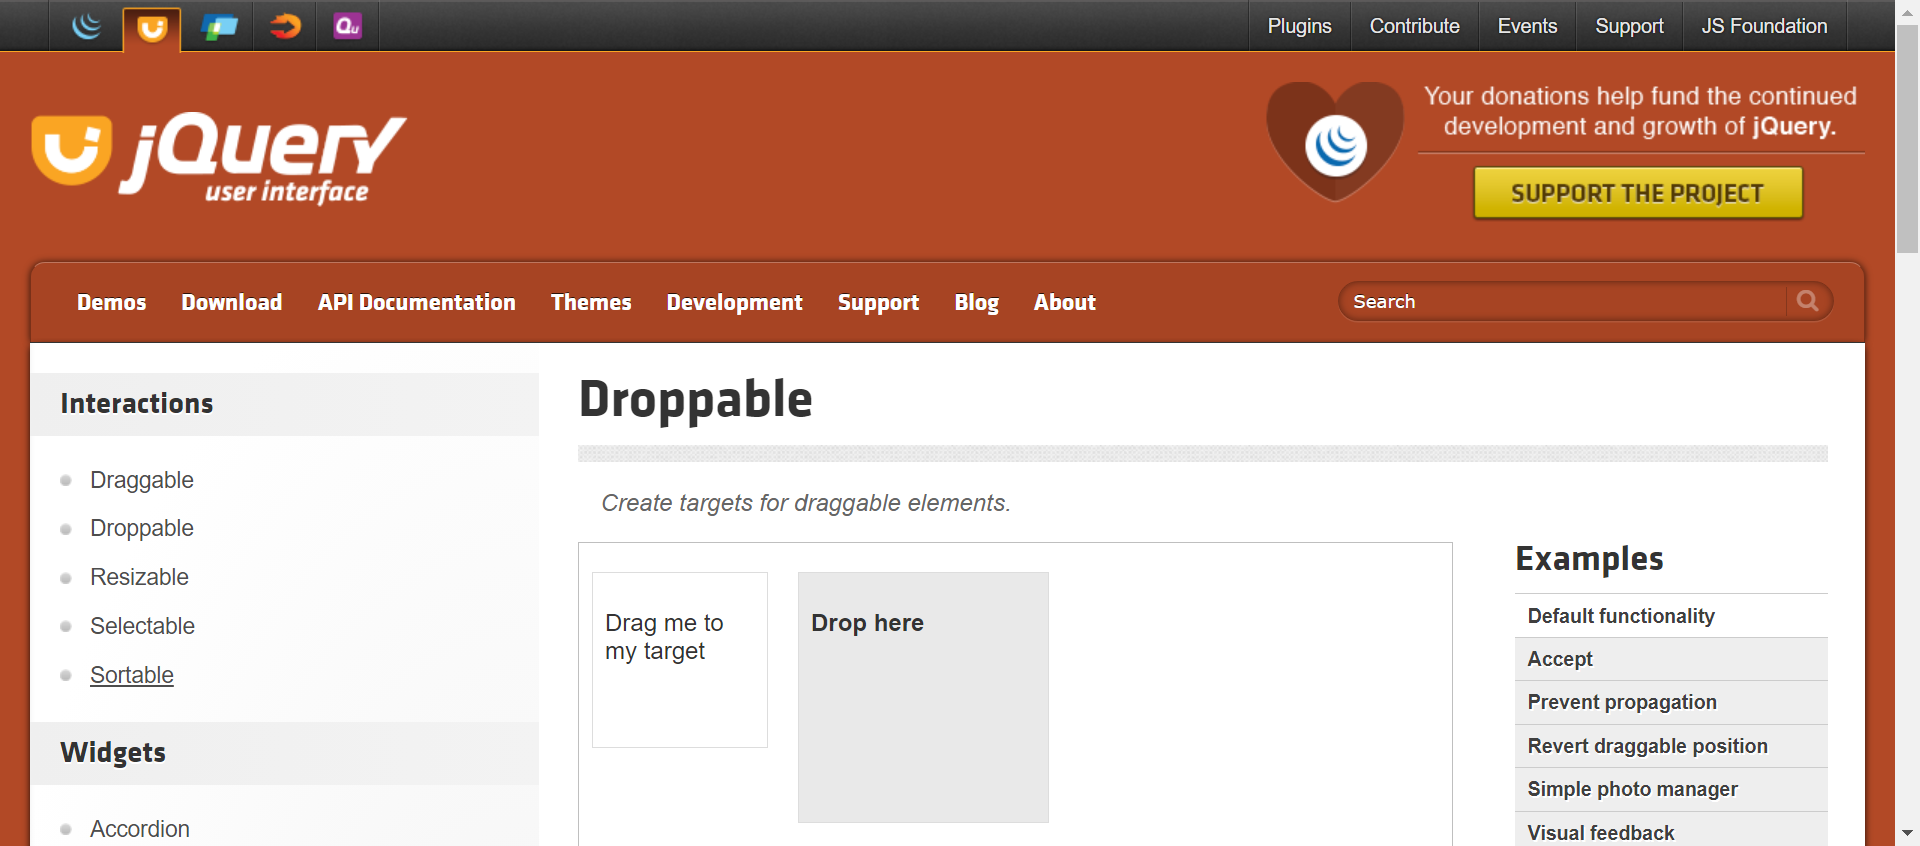
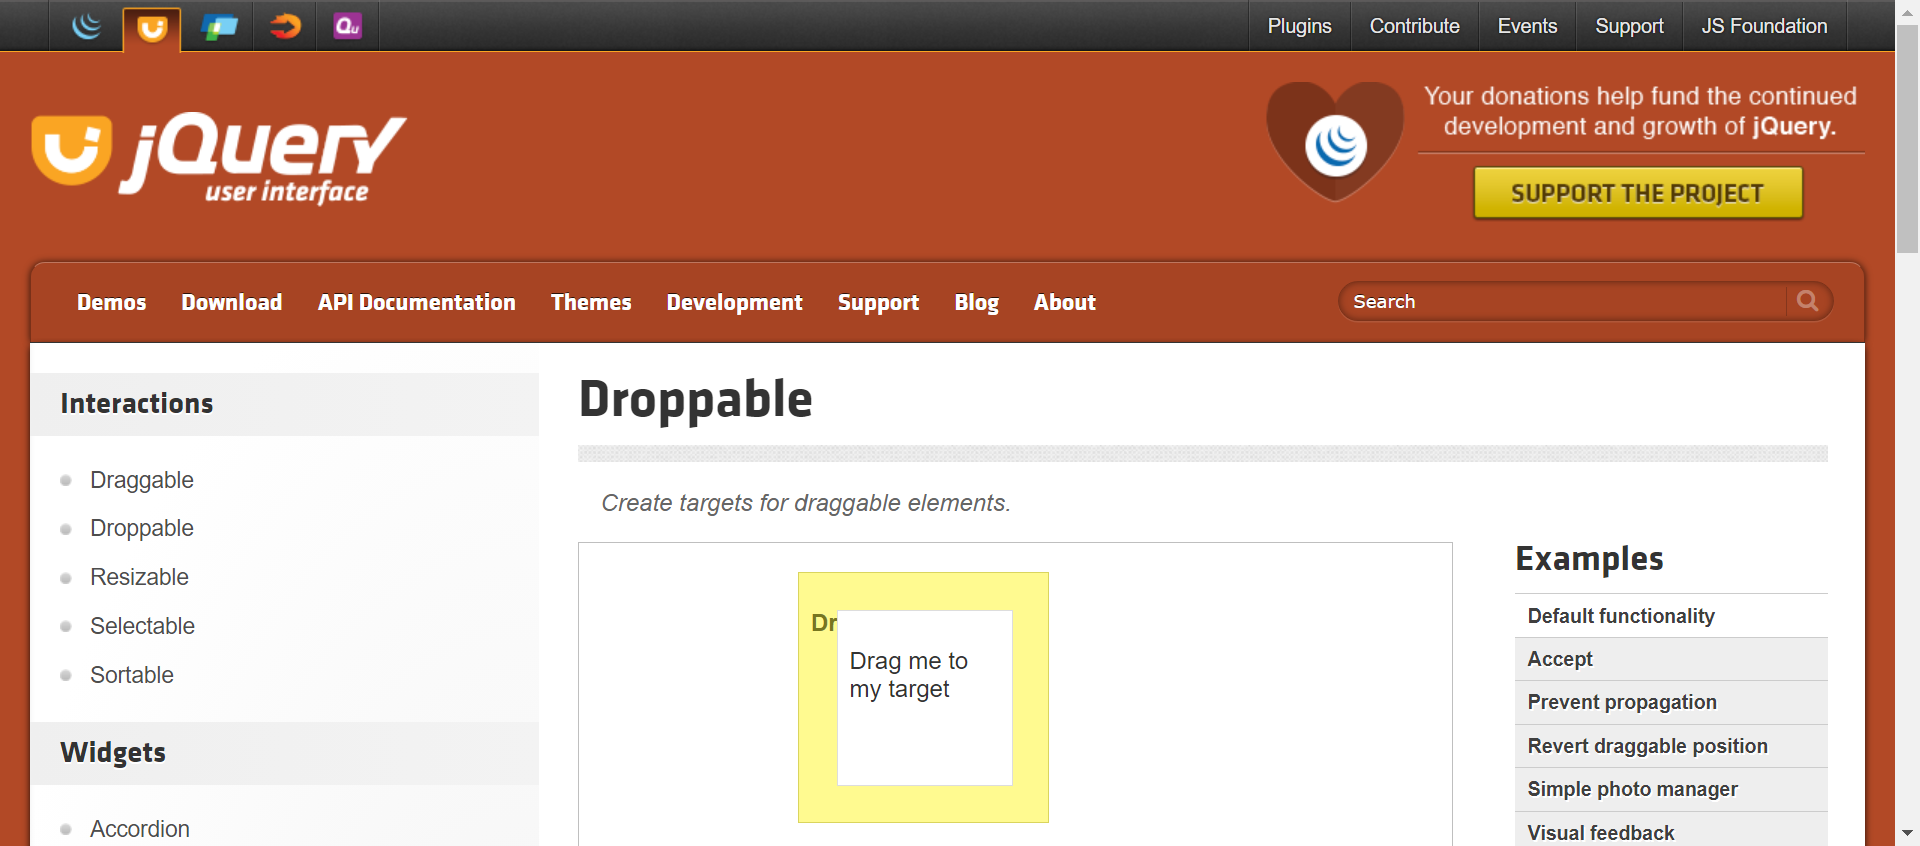
fix: drag and drop feature

Changed region(s): [[0.4062, 0.6761, 0.5625, 0.9835], [0.3125, 0.7069, 0.375, 0.7991]]

diff --git a/target/reports.html b/target/reports.html
@@ -38,7 +38,7 @@ body{padding:0;margin:0}.html-formatter{max-width:1600px;min-height:100vh;margin
 <div id="content">
 </div>
 <script>
-window.CUCUMBER_MESSAGES = [{"meta":{"protocolVersion":"19.1.4","implementation":{"name":"cucumber-jvm","version":"7.10.1"},"runtime":{"name":"Java HotSpot(TM) 64-Bit Server VM","version":"17.0.6+9-LTS-190"},"os":{"name":"Windows 10"},"cpu":{"name":"amd64"}}},{"testRunStarted":{"timestamp":{"seconds":1676283001,"nanos":433547300}}},{"source":{"uri":"file:///C:/Users/Formulatrix/Documents/Nugi/Java/jquery/src/test/resource/features/Droppable.feature","data":"Feature: to test and validate drag and drop element\r\n    @run\r\n    Scenario: successfully validate drag and drop an element\r\n        Given user is on jquery home page\r\n        And user go to \"Droppable\" page\r\n        Then user drag and drop element\r\n        Then element successfully dropped","mediaType":"text/x.cucumber.gherkin+plain"}},{"gherkinDocument":{"uri":"file:///C:/Users/Formulatrix/Documents/Nugi/Java/jquery/src/test/resource/features/Droppable.feature","feature":{"location":{"line":1,"column":1},"tags":[],"language":"en","keyword":"Feature","name":"to test and validate drag and drop element","description":"","children":[{"scenario":{"location":{"line":3,"column":5},"tags":[{"location":{"line":2,"column":5},"name":"@run","id":"c328298e-13a1-489f-b04e-7148a51bdf41"}],"keyword":"Scenario","name":"successfully validate drag and drop an element","description":"","steps":[{"location":{"line":4,"column":9},"keyword":"Given ","keywordType":"Context","text":"user is on jquery home page","id":"3a92dff9-d424-432d-aebc-021e7b579d3d"},{"location":{"line":5,"column":9},"keyword":"And ","keywordType":"Conjunction","text":"user go to \"Droppable\" page","id":"9a145c7c-2b4d-4a31-8f42-1dc280dc90d3"},{"location":{"line":6,"column":9},"keyword":"Then ","keywordType":"Outcome","text":"user drag and drop element","id":"01b42d81-90ff-41e2-8474-ea606e4c7f4a"},{"location":{"line":7,"column":9},"keyword":"Then ","keywordType":"Outcome","text":"element successfully dropped","id":"bdf19fd7-b1c5-49d8-a446-60153ae9c157"}],"examples":[],"id":"02f602e0-cee0-4828-91f7-d17985b01421"}}]},"comments":[]}},{"pickle":{"id":"e1ffa490-31dd-41b5-960d-1814c2c7249d","uri":"file:///C:/Users/Formulatrix/Documents/Nugi/Java/jquery/src/test/resource/features/Droppable.feature","name":"successfully validate drag and drop an element","language":"en","steps":[{"astNodeIds":["3a92dff9-d424-432d-aebc-021e7b579d3d"],"id":"c3f97a2f-2f03-44f1-962a-74033e7461eb","type":"Context","text":"user is on jquery home page"},{"astNodeIds":["9a145c7c-2b4d-4a31-8f42-1dc280dc90d3"],"id":"754b4523-13e6-468e-a60e-cd26e87c4619","type":"Context","text":"user go to \"Droppable\" page"},{"astNodeIds":["01b42d81-90ff-41e2-8474-ea606e4c7f4a"],"id":"04dd3591-318d-4353-98bd-6108b0a0d2ad","type":"Outcome","text":"user drag and drop element"},{"astNodeIds":["bdf19fd7-b1c5-49d8-a446-60153ae9c157"],"id":"1b54b75d-c89e-4679-80de-d6555508725d","type":"Outcome","text":"element successfully dropped"}],"tags":[{"name":"@run","astNodeId":"c328298e-13a1-489f-b04e-7148a51bdf41"}],"astNodeIds":["02f602e0-cee0-4828-91f7-d17985b01421"]}},{"testCase":{"id":"f621c6e4-e398-4411-a172-6500da5bec59","pickleId":"e1ffa490-31dd-41b5-960d-1814c2c7249d","testSteps":[{"hookId":"7e7edaae-bd73-4468-bdfe-c4833521cf38","id":"c87e2ed1-0966-4b56-9f8a-c1bf21df7ca8"},{"id":"6f657b8a-bdda-41e6-b96f-0165682f2e1e","pickleStepId":"c3f97a2f-2f03-44f1-962a-74033e7461eb","stepDefinitionIds":["a8c001f5-a664-4809-af3f-9401041ff2c7"],"stepMatchArgumentsLists":[{"stepMatchArguments":[]}]},{"id":"c297d833-bc7c-43b4-b6ee-2f21ded17e86","pickleStepId":"754b4523-13e6-468e-a60e-cd26e87c4619","stepDefinitionIds":["6d3f8b75-6ed4-4db2-a972-f6e9af9974f4"],"stepMatchArgumentsLists":[{"stepMatchArguments":[{"group":{"children":[{"children":[{"children":[],"start":-1}],"start":12,"value":"Droppable"},{"children":[{"children":[],"start":-1}],"start":-1}],"start":11,"value":"\"Droppable\""},"parameterTypeName":"string"}]}]},{"id":"d3678cf1-612d-4976-8dc5-8bbbf088af68","pickleStepId":"04dd3591-318d-4353-98bd-6108b0a0d2ad","stepDefinitionIds":["941518a5-6671-47d1-80a2-3693bf2f461d"],"stepMatchArgumentsLists":[{"stepMatchArguments":[]}]},{"id":"788ee81b-62c5-4010-8015-b135ca676487","pickleStepId":"1b54b75d-c89e-4679-80de-d6555508725d","stepDefinitionIds":["67fd4e5b-0436-4797-b984-5e87b54a80d7"],"stepMatchArgumentsLists":[{"stepMatchArguments":[]}]},{"hookId":"a4bd6b30-4370-4b15-94df-c500d3cf4b9a","id":"a7472a94-6817-4567-aafa-6a00751a0133"}]}},{"testCaseStarted":{"attempt":0,"id":"734be3d1-b7ec-4ecf-8847-e6e3fc5a583c","testCaseId":"f621c6e4-e398-4411-a172-6500da5bec59","timestamp":{"seconds":1676283001,"nanos":587220600}}},{"testStepStarted":{"testCaseStartedId":"734be3d1-b7ec-4ecf-8847-e6e3fc5a583c","testStepId":"c87e2ed1-0966-4b56-9f8a-c1bf21df7ca8","timestamp":{"seconds":1676283001,"nanos":590212800}}},{"testStepFinished":{"testCaseStartedId":"734be3d1-b7ec-4ecf-8847-e6e3fc5a583c","testStepId":"c87e2ed1-0966-4b56-9f8a-c1bf21df7ca8","testStepResult":{"duration":{"seconds":1,"nanos":676122300},"status":"PASSED"},"timestamp":{"seconds":1676283003,"nanos":266335100}}},{"testStepStarted":{"testCaseStartedId":"734be3d1-b7ec-4ecf-8847-e6e3fc5a583c","testStepId":"6f657b8a-bdda-41e6-b96f-0165682f2e1e","timestamp":{"seconds":1676283003,"nanos":272318700}}},{"testStepFinished":{"testCaseStartedId":"734be3d1-b7ec-4ecf-8847-e6e3fc5a583c","testStepId":"6f657b8a-bdda-41e6-b96f-0165682f2e1e","testStepResult":{"duration":{"seconds":6,"nanos":367723100},"status":"PASSED"},"timestamp":{"seconds":1676283009,"nanos":640041800}}},{"testStepStarted":{"testCaseStartedId":"734be3d1-b7ec-4ecf-8847-e6e3fc5a583c","testStepId":"c297d833-bc7c-43b4-b6ee-2f21ded17e86","timestamp":{"seconds":1676283009,"nanos":643034200}}},{"testStepFinished":{"testCaseStartedId":"734be3d1-b7ec-4ecf-8847-e6e3fc5a583c","testStepId":"c297d833-bc7c-43b4-b6ee-2f21ded17e86","testStepResult":{"duration":{"seconds":3,"nanos":317920300},"status":"PASSED"},"timestamp":{"seconds":1676283012,"nanos":960954500}}},{"testStepStarted":{"testCaseStartedId":"734be3d1-b7ec-4ecf-8847-e6e3fc5a583c","testStepId":"d3678cf1-612d-4976-8dc5-8bbbf088af68","timestamp":{"seconds":1676283012,"nanos":960954500}}},{"testStepFinished":{"testCaseStartedId":"734be3d1-b7ec-4ecf-8847-e6e3fc5a583c","testStepId":"d3678cf1-612d-4976-8dc5-8bbbf088af68","testStepResult":{"duration":{"seconds":0,"nanos":329642700},"status":"PASSED"},"timestamp":{"seconds":1676283013,"nanos":290597200}}},{"testStepStarted":{"testCaseStartedId":"734be3d1-b7ec-4ecf-8847-e6e3fc5a583c","testStepId":"788ee81b-62c5-4010-8015-b135ca676487","timestamp":{"seconds":1676283013,"nanos":291598200}}},{"testStepFinished":{"testCaseStartedId":"734be3d1-b7ec-4ecf-8847-e6e3fc5a583c","testStepId":"788ee81b-62c5-4010-8015-b135ca676487","testStepResult":{"duration":{"seconds":0,"nanos":3984700},"status":"PASSED"},"timestamp":{"seconds":1676283013,"nanos":295582900}}},{"testStepStarted":{"testCaseStartedId":"734be3d1-b7ec-4ecf-8847-e6e3fc5a583c","testStepId":"a7472a94-6817-4567-aafa-6a00751a0133","timestamp":{"seconds":1676283013,"nanos":295582900}}},{"testStepFinished":{"testCaseStartedId":"734be3d1-b7ec-4ecf-8847-e6e3fc5a583c","testStepId":"a7472a94-6817-4567-aafa-6a00751a0133","testStepResult":{"duration":{"seconds":0,"nanos":224453500},"status":"PASSED"},"timestamp":{"seconds":1676283013,"nanos":520036400}}},{"testCaseFinished":{"testCaseStartedId":"734be3d1-b7ec-4ecf-8847-e6e3fc5a583c","timestamp":{"seconds":1676283013,"nanos":520036400},"willBeRetried":false}},{"testRunFinished":{"success":true,"timestamp":{"seconds":1676283013,"nanos":530008200}}}];
+window.CUCUMBER_MESSAGES = [{"meta":{"protocolVersion":"19.1.4","implementation":{"name":"cucumber-jvm","version":"7.10.1"},"runtime":{"name":"Java HotSpot(TM) 64-Bit Server VM","version":"17.0.6+9-LTS-190"},"os":{"name":"Windows 10"},"cpu":{"name":"amd64"}}},{"testRunStarted":{"timestamp":{"seconds":1676338224,"nanos":358141700}}},{"source":{"uri":"file:///C:/Users/Formulatrix/Documents/Nugi/Java/jquery/src/test/resource/features/Droppable.feature","data":"Feature: to test and validate drag and drop element\r\n    @run\r\n    Scenario: successfully validate drag and drop an element\r\n        Given user is on jquery home page\r\n        And user go to \"Droppable\" page\r\n        Then user drag and drop element\r\n        When dropable element have \"Dropped!\" as text and yellow background color\r\n        Then element successfully dropped","mediaType":"text/x.cucumber.gherkin+plain"}},{"gherkinDocument":{"uri":"file:///C:/Users/Formulatrix/Documents/Nugi/Java/jquery/src/test/resource/features/Droppable.feature","feature":{"location":{"line":1,"column":1},"tags":[],"language":"en","keyword":"Feature","name":"to test and validate drag and drop element","description":"","children":[{"scenario":{"location":{"line":3,"column":5},"tags":[{"location":{"line":2,"column":5},"name":"@run","id":"94cd65a0-61a0-4126-b43e-e7719552dcfc"}],"keyword":"Scenario","name":"successfully validate drag and drop an element","description":"","steps":[{"location":{"line":4,"column":9},"keyword":"Given ","keywordType":"Context","text":"user is on jquery home page","id":"dc30f519-726c-42a1-b25c-27bba6bbde25"},{"location":{"line":5,"column":9},"keyword":"And ","keywordType":"Conjunction","text":"user go to \"Droppable\" page","id":"7615d222-6166-4772-b636-6035b409a9c0"},{"location":{"line":6,"column":9},"keyword":"Then ","keywordType":"Outcome","text":"user drag and drop element","id":"2a6774c4-4cc7-460d-acd3-372c0644c4b3"},{"location":{"line":7,"column":9},"keyword":"When ","keywordType":"Action","text":"dropable element have \"Dropped!\" as text and yellow background color","id":"b972eeb0-2f06-4ebb-b6c3-2cf63befc480"},{"location":{"line":8,"column":9},"keyword":"Then ","keywordType":"Outcome","text":"element successfully dropped","id":"2a0c1ea6-0ced-4097-ab7a-2998c915e824"}],"examples":[],"id":"9af37b1d-e82c-479a-b40b-16569fc69658"}}]},"comments":[]}},{"pickle":{"id":"ec51541b-ea77-49a6-901b-afb20cb26aef","uri":"file:///C:/Users/Formulatrix/Documents/Nugi/Java/jquery/src/test/resource/features/Droppable.feature","name":"successfully validate drag and drop an element","language":"en","steps":[{"astNodeIds":["dc30f519-726c-42a1-b25c-27bba6bbde25"],"id":"185a7014-6675-475b-b4bb-ef6d603e6e11","type":"Context","text":"user is on jquery home page"},{"astNodeIds":["7615d222-6166-4772-b636-6035b409a9c0"],"id":"4dfdf001-90fb-4ce7-b467-6917cfdde490","type":"Context","text":"user go to \"Droppable\" page"},{"astNodeIds":["2a6774c4-4cc7-460d-acd3-372c0644c4b3"],"id":"97db8824-857d-40b5-ad34-4989a6030f19","type":"Outcome","text":"user drag and drop element"},{"astNodeIds":["b972eeb0-2f06-4ebb-b6c3-2cf63befc480"],"id":"37403307-18b6-49a0-9919-3c656b168060","type":"Action","text":"dropable element have \"Dropped!\" as text and yellow background color"},{"astNodeIds":["2a0c1ea6-0ced-4097-ab7a-2998c915e824"],"id":"8ab3b287-255c-4cff-b58f-cbee069510b4","type":"Outcome","text":"element successfully dropped"}],"tags":[{"name":"@run","astNodeId":"94cd65a0-61a0-4126-b43e-e7719552dcfc"}],"astNodeIds":["9af37b1d-e82c-479a-b40b-16569fc69658"]}},{"testCase":{"id":"f1e88633-27ca-4d38-aca7-5cd521443ce2","pickleId":"ec51541b-ea77-49a6-901b-afb20cb26aef","testSteps":[{"hookId":"6ba0e1ac-5f2d-442a-a1c1-782bb2c1caea","id":"c457580d-0110-4402-bded-a68df790760f"},{"id":"adb53981-369d-471d-b08b-b16571895309","pickleStepId":"185a7014-6675-475b-b4bb-ef6d603e6e11","stepDefinitionIds":["6ef49e9b-5cfb-4f17-a2c1-f2c957b0669a"],"stepMatchArgumentsLists":[{"stepMatchArguments":[]}]},{"id":"b82c1f79-1aca-4e12-bd1b-40f8cece6149","pickleStepId":"4dfdf001-90fb-4ce7-b467-6917cfdde490","stepDefinitionIds":["4e6b29a3-86c9-476a-add2-6e0e0d8c75c9"],"stepMatchArgumentsLists":[{"stepMatchArguments":[{"group":{"children":[{"children":[{"children":[],"start":-1}],"start":12,"value":"Droppable"},{"children":[{"children":[],"start":-1}],"start":-1}],"start":11,"value":"\"Droppable\""},"parameterTypeName":"string"}]}]},{"id":"c6b9c4fd-cc53-435d-b167-344ab05b2f7c","pickleStepId":"97db8824-857d-40b5-ad34-4989a6030f19","stepDefinitionIds":["f6ceadc3-abf1-4ee1-8c9c-e791e31c69e9"],"stepMatchArgumentsLists":[{"stepMatchArguments":[]}]},{"id":"054a800a-a06c-412d-86d6-46f89df5680c","pickleStepId":"37403307-18b6-49a0-9919-3c656b168060","stepDefinitionIds":["a915d5ab-c9f3-4de7-90b9-4d65287735de"],"stepMatchArgumentsLists":[{"stepMatchArguments":[{"group":{"children":[{"children":[{"children":[],"start":-1}],"start":23,"value":"Dropped!"},{"children":[{"children":[],"start":-1}],"start":-1}],"start":22,"value":"\"Dropped!\""},"parameterTypeName":"string"}]}]},{"id":"f6517b5e-bc29-4936-95d8-73c1c1649227","pickleStepId":"8ab3b287-255c-4cff-b58f-cbee069510b4","stepDefinitionIds":["19e1cda0-fded-44ed-9367-203224b84ff1"],"stepMatchArgumentsLists":[{"stepMatchArguments":[]}]},{"hookId":"7d83e322-1957-4d08-ac30-7c415de354ff","id":"bea56dcc-605e-406c-afe5-becd029d562d"}]}},{"testCaseStarted":{"attempt":0,"id":"ef5bc9c9-d974-458d-90f0-8bfcbe611759","testCaseId":"f1e88633-27ca-4d38-aca7-5cd521443ce2","timestamp":{"seconds":1676338224,"nanos":515455600}}},{"testStepStarted":{"testCaseStartedId":"ef5bc9c9-d974-458d-90f0-8bfcbe611759","testStepId":"c457580d-0110-4402-bded-a68df790760f","timestamp":{"seconds":1676338224,"nanos":518412900}}},{"testStepFinished":{"testCaseStartedId":"ef5bc9c9-d974-458d-90f0-8bfcbe611759","testStepId":"c457580d-0110-4402-bded-a68df790760f","testStepResult":{"duration":{"seconds":1,"nanos":668442500},"status":"PASSED"},"timestamp":{"seconds":1676338226,"nanos":186855400}}},{"testStepStarted":{"testCaseStartedId":"ef5bc9c9-d974-458d-90f0-8bfcbe611759","testStepId":"adb53981-369d-471d-b08b-b16571895309","timestamp":{"seconds":1676338226,"nanos":187852400}}},{"testStepFinished":{"testCaseStartedId":"ef5bc9c9-d974-458d-90f0-8bfcbe611759","testStepId":"adb53981-369d-471d-b08b-b16571895309","testStepResult":{"duration":{"seconds":2,"nanos":101391600},"status":"PASSED"},"timestamp":{"seconds":1676338228,"nanos":289244000}}},{"testStepStarted":{"testCaseStartedId":"ef5bc9c9-d974-458d-90f0-8bfcbe611759","testStepId":"b82c1f79-1aca-4e12-bd1b-40f8cece6149","timestamp":{"seconds":1676338228,"nanos":290241300}}},{"testStepFinished":{"testCaseStartedId":"ef5bc9c9-d974-458d-90f0-8bfcbe611759","testStepId":"b82c1f79-1aca-4e12-bd1b-40f8cece6149","testStepResult":{"duration":{"seconds":2,"nanos":32438600},"status":"PASSED"},"timestamp":{"seconds":1676338230,"nanos":322679900}}},{"testStepStarted":{"testCaseStartedId":"ef5bc9c9-d974-458d-90f0-8bfcbe611759","testStepId":"c6b9c4fd-cc53-435d-b167-344ab05b2f7c","timestamp":{"seconds":1676338230,"nanos":323676300}}},{"testStepFinished":{"testCaseStartedId":"ef5bc9c9-d974-458d-90f0-8bfcbe611759","testStepId":"c6b9c4fd-cc53-435d-b167-344ab05b2f7c","testStepResult":{"duration":{"seconds":0,"nanos":355821700},"status":"PASSED"},"timestamp":{"seconds":1676338230,"nanos":679498000}}},{"testStepStarted":{"testCaseStartedId":"ef5bc9c9-d974-458d-90f0-8bfcbe611759","testStepId":"054a800a-a06c-412d-86d6-46f89df5680c","timestamp":{"seconds":1676338230,"nanos":679498000}}},{"testStepFinished":{"testCaseStartedId":"ef5bc9c9-d974-458d-90f0-8bfcbe611759","testStepId":"054a800a-a06c-412d-86d6-46f89df5680c","testStepResult":{"duration":{"seconds":0,"nanos":44218200},"status":"PASSED"},"timestamp":{"seconds":1676338230,"nanos":723716200}}},{"testStepStarted":{"testCaseStartedId":"ef5bc9c9-d974-458d-90f0-8bfcbe611759","testStepId":"f6517b5e-bc29-4936-95d8-73c1c1649227","timestamp":{"seconds":1676338230,"nanos":724716800}}},{"testStepFinished":{"testCaseStartedId":"ef5bc9c9-d974-458d-90f0-8bfcbe611759","testStepId":"f6517b5e-bc29-4936-95d8-73c1c1649227","testStepResult":{"duration":{"seconds":0,"nanos":0},"status":"PASSED"},"timestamp":{"seconds":1676338230,"nanos":724716800}}},{"testStepStarted":{"testCaseStartedId":"ef5bc9c9-d974-458d-90f0-8bfcbe611759","testStepId":"bea56dcc-605e-406c-afe5-becd029d562d","timestamp":{"seconds":1676338230,"nanos":724716800}}},{"testStepFinished":{"testCaseStartedId":"ef5bc9c9-d974-458d-90f0-8bfcbe611759","testStepId":"bea56dcc-605e-406c-afe5-becd029d562d","testStepResult":{"duration":{"seconds":0,"nanos":995500},"status":"PASSED"},"timestamp":{"seconds":1676338230,"nanos":725712300}}},{"testCaseFinished":{"testCaseStartedId":"ef5bc9c9-d974-458d-90f0-8bfcbe611759","timestamp":{"seconds":1676338230,"nanos":725712300},"willBeRetried":false}},{"testRunFinished":{"success":true,"timestamp":{"seconds":1676338230,"nanos":728704000}}}];
 </script>
 <script>
 /*! For license information please see main.js.LICENSE.txt */

diff --git a/src/test/java/PageObjects/DroppablePage.java b/src/test/java/PageObjects/DroppablePage.java
@@ -8,6 +8,7 @@ import java.time.Duration;
 import org.openqa.selenium.By;
 import org.openqa.selenium.WebDriver;
 import org.openqa.selenium.WebElement;
+import org.openqa.selenium.interactions.Action;
 import org.openqa.selenium.interactions.Actions;
 import org.openqa.selenium.support.ui.ExpectedConditions;
 import org.openqa.selenium.support.ui.WebDriverWait;
@@ -23,9 +24,15 @@ public class DroppablePage {
 
         WebDriverWait wait = new WebDriverWait(driver, Duration.ofSeconds(10));
         WebElement target = wait.until(ExpectedConditions.presenceOfElementLocated(By.id("draggable")));
-        WebElement source = wait.until(ExpectedConditions.presenceOfElementLocated(By.id("draggable")));
+        WebElement source = wait.until(ExpectedConditions.presenceOfElementLocated(By.id("droppable")));
         Actions actions = new Actions(driver);
-        actions.dragAndDrop(source, target).perform();
+        actions.dragAndDrop(target, source).build().perform();
+        // Action drag = actions.clickAndHold(target)
+        // .moveToElement(source)
+        // .release(target)
+        // .build();
+
+        // drag.perform();
     }
 
     public void validateDragAndDrop(String text) {
@@ -33,9 +40,10 @@ public class DroppablePage {
         String actualColor = target.getCssValue("background-color");
         String actualText = target.getText();
 
-        String expectedColor = "rgb(255, 250, 144)"; // equivalent to #fffa90
+        String expectedColor = "rgba(255, 250, 144, 1)"; // equivalent to #fffa90
 
         assertTrue(actualColor.equals(expectedColor), "Incorrect color: " + actualColor);
+
         assertEquals(actualText, text, "Incorrect text: " + actualText);
     }
 }

diff --git a/src/test/java/Driver/Driver.java b/src/test/java/Driver/Driver.java
@@ -1,7 +1,9 @@
 package Driver;
 
+import org.openqa.selenium.PageLoadStrategy;
 import org.openqa.selenium.WebDriver;
 import org.openqa.selenium.chrome.ChromeDriver;
+import org.openqa.selenium.chrome.ChromeOptions;
 
 public class Driver {
     private static WebDriver driver;
@@ -14,6 +16,9 @@ public class Driver {
             String projectPath = System.getProperty("user.dir");
 
             System.setProperty("webdriver.chrome.driver", projectPath + "/src/test/resource/driver/chromedriver.exe");
+
+            ChromeOptions options = new ChromeOptions();
+            options.setPageLoadStrategy(PageLoadStrategy.EAGER);
 
             driver = new ChromeDriver();
 

diff --git a/src/test/java/StepDefinitions/StepDroppable.java b/src/test/java/StepDefinitions/StepDroppable.java
@@ -30,9 +30,9 @@ public class StepDroppable {
         droppablePage.dragAndDrop();
     }
 
-    @When("dropable element have {string} text and yellow background color")
-    public void dropable_element_have_text_and_yellow_background_color(String string) {
-        droppablePage.dragAndDrop();
+    @When("dropable element have {string} as text and yellow background color")
+    public void dropable_element_have_as_text_and_yellow_background_color(String string) {
+        droppablePage.validateDragAndDrop(string);
     }
 
     @Then("element successfully dropped")

diff --git a/src/test/java/StepDefinitions/Hooks.java b/src/test/java/StepDefinitions/Hooks.java
@@ -37,7 +37,7 @@ public class Hooks {
                 e.printStackTrace();
             }
         }
-        driver.close();
-        driver.quit();
+        // driver.close();
+        // driver.quit();
     }
 }
